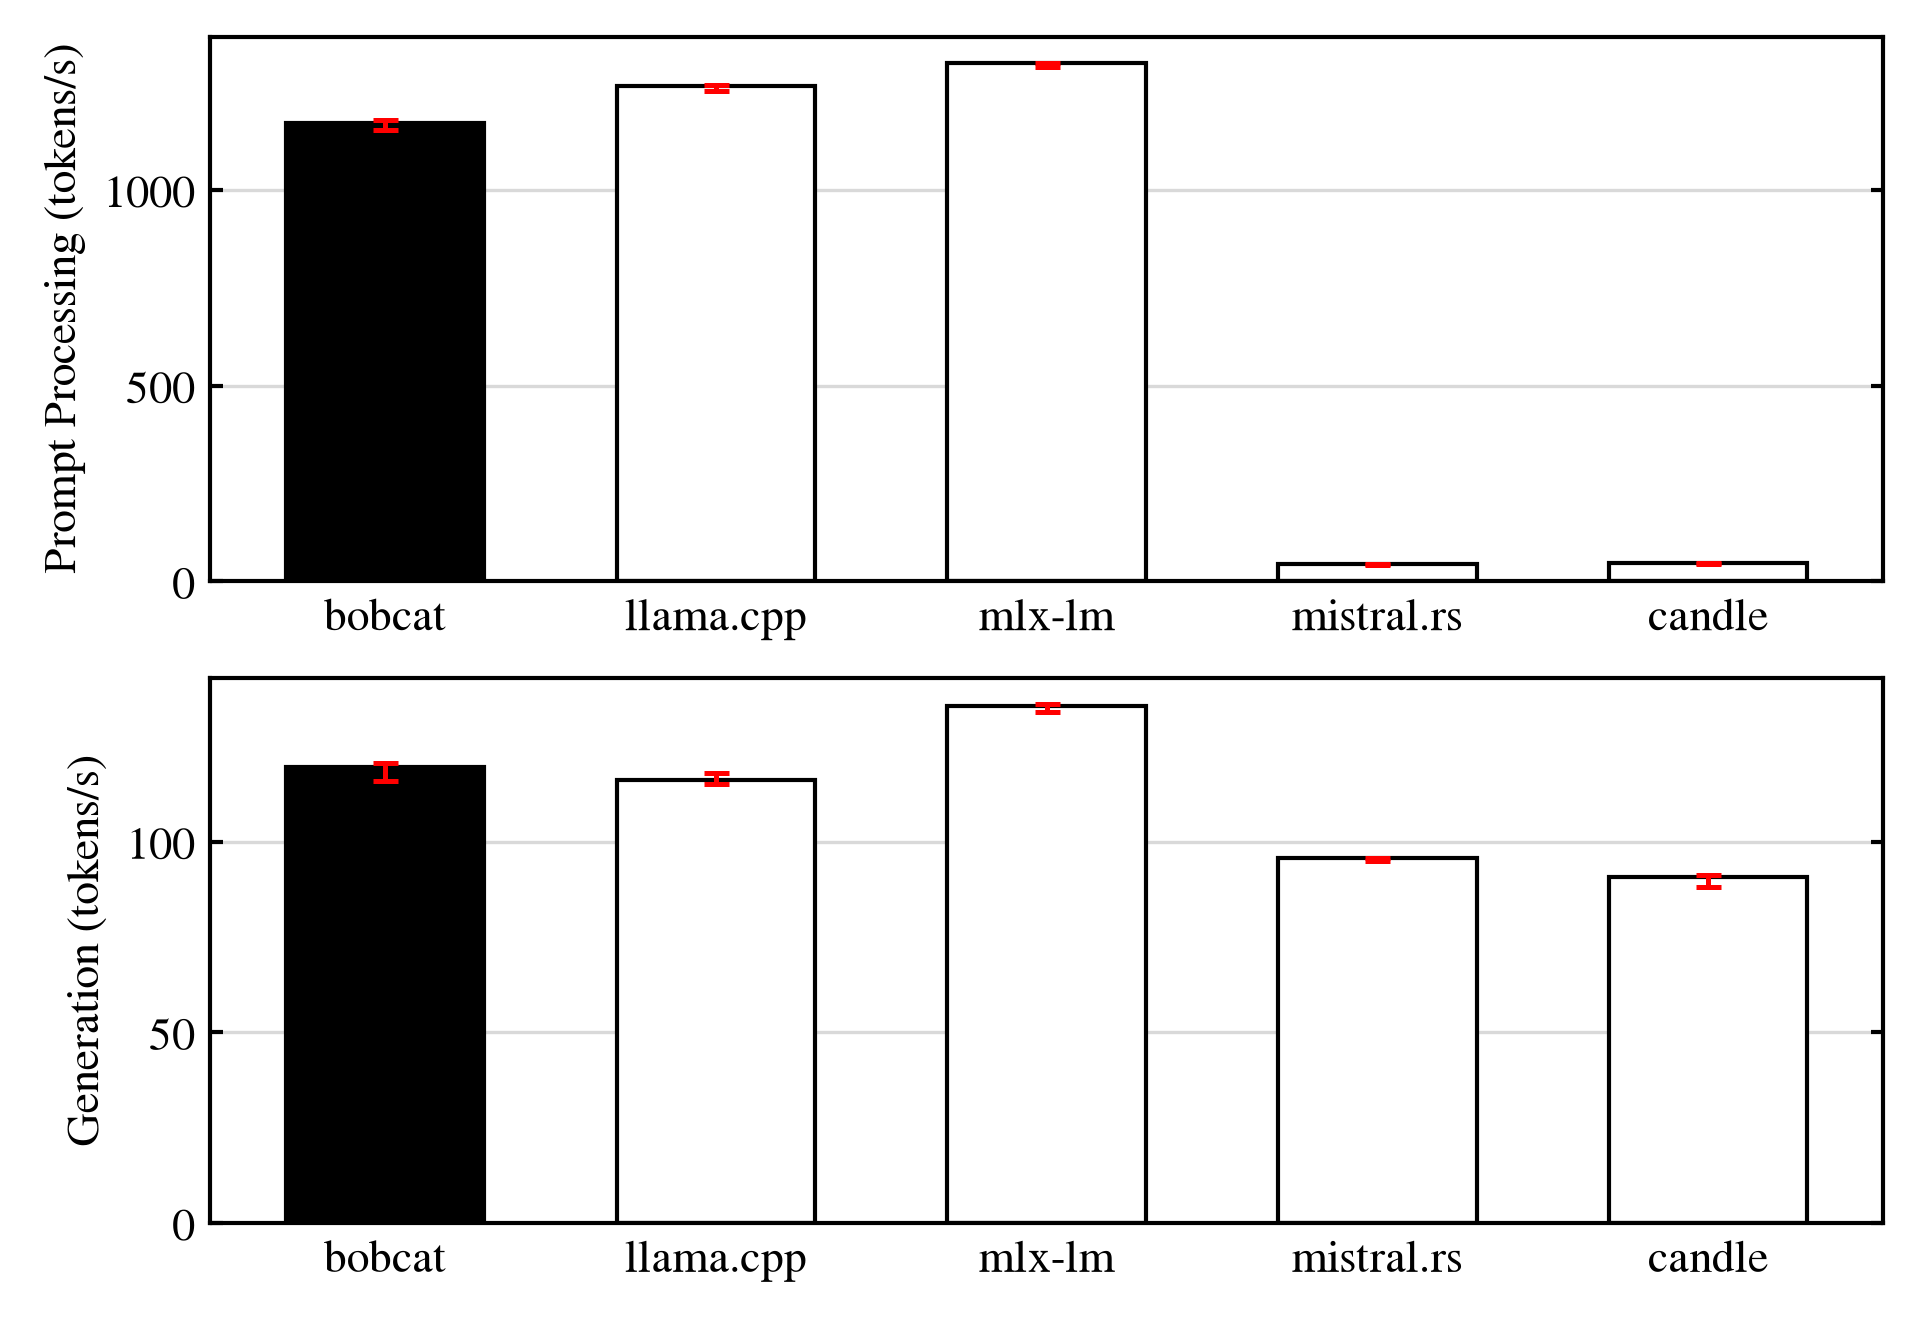
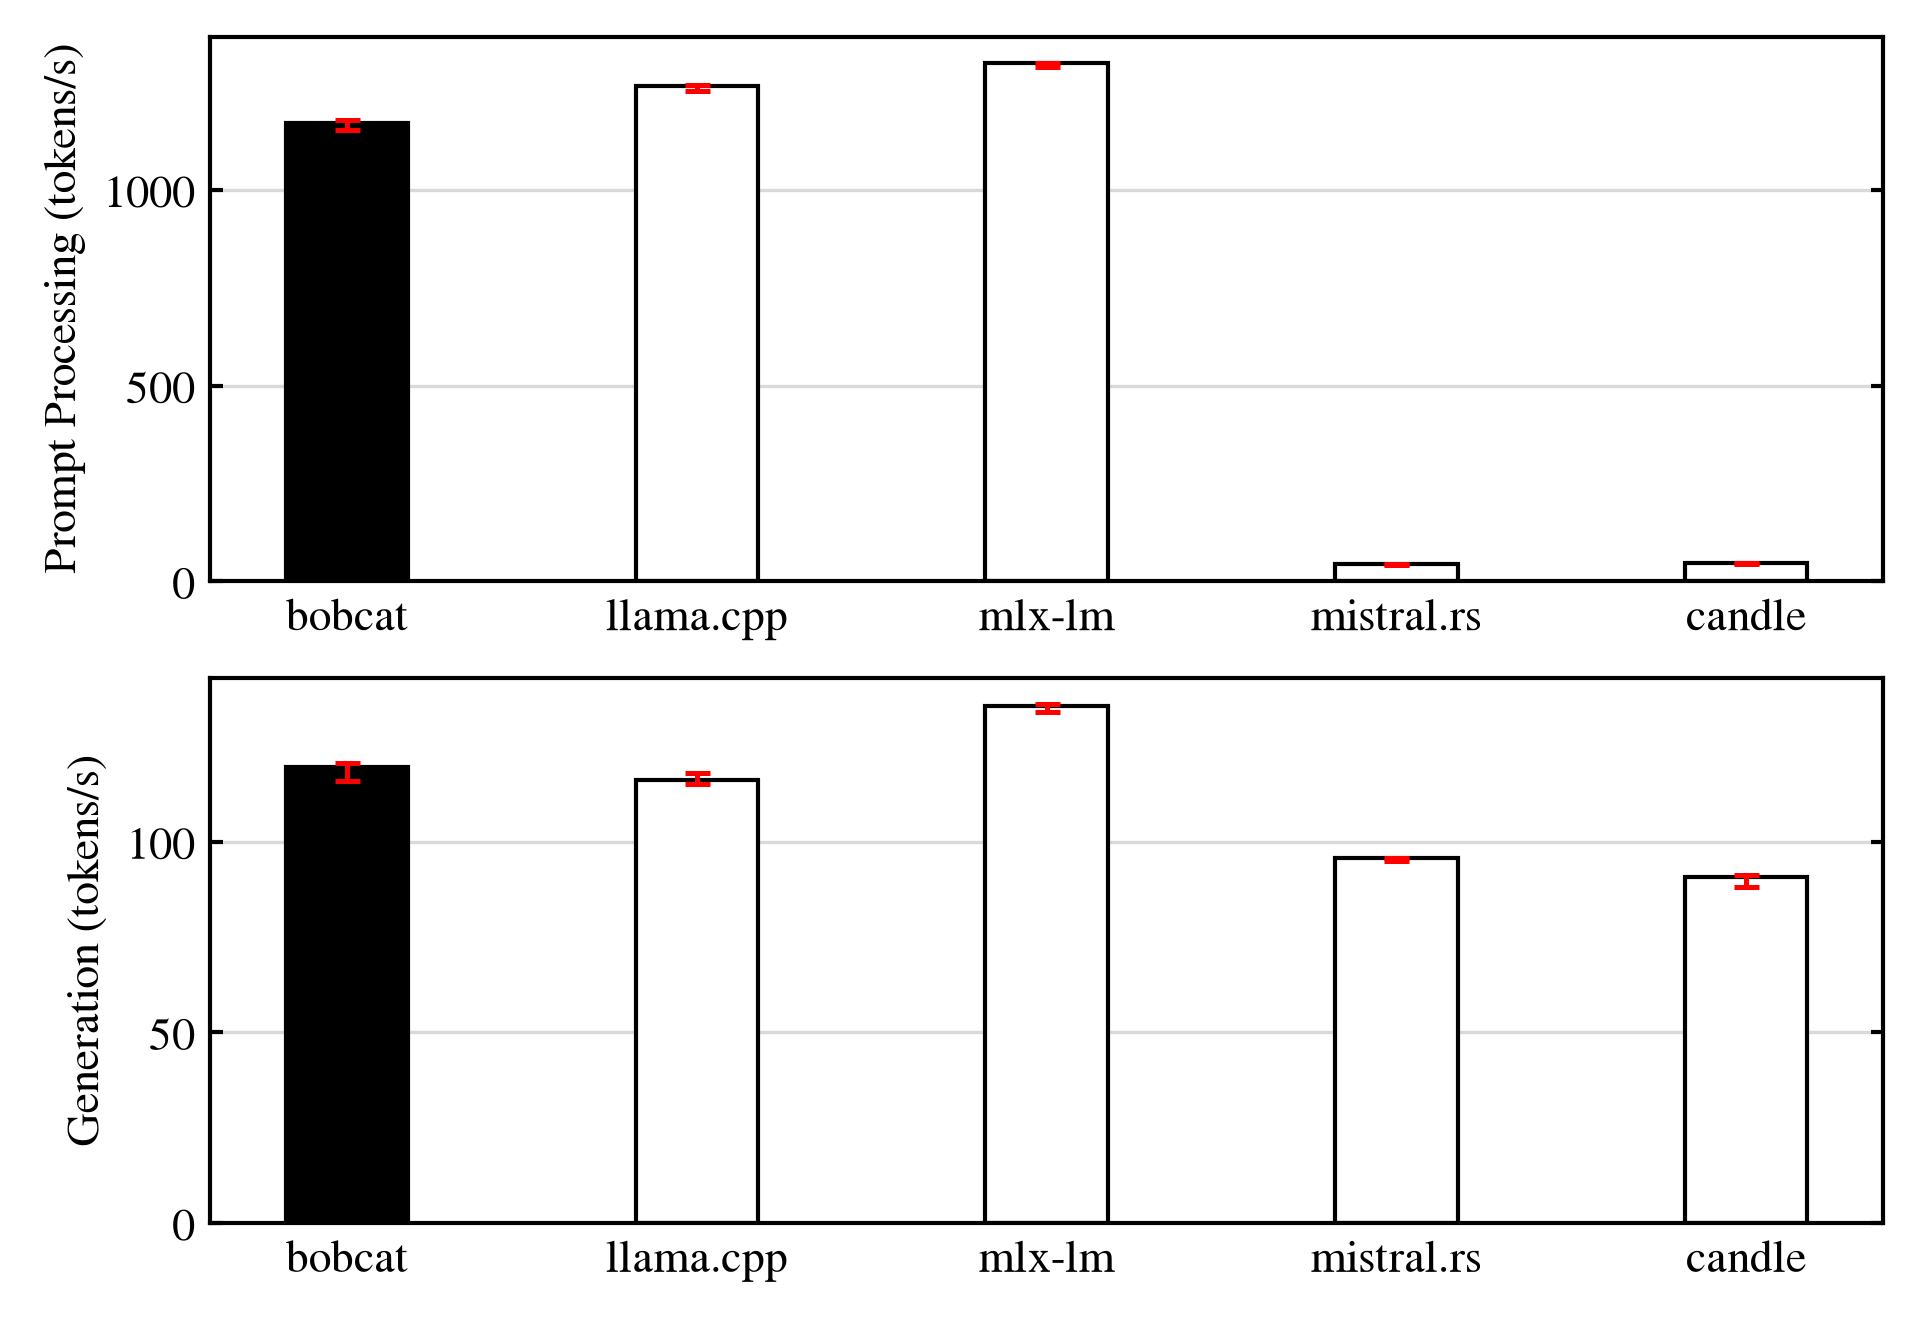
docs: narrow the performance chart's bars

diff --git a/tools/performance_plot.py b/tools/performance_plot.py
@@ -53,7 +53,8 @@ matplotlib.rcParams.update(
 # The panels stack, so each spans the full width and the engine names fit level under the bars.
 FIGURE_SIZE_INCHES = (6.4, 4.4)
 PNG_DPI = 300
-BAR_WIDTH = 0.6
+# Each bar fills 0.35 of the space between two engines, so full-width panels keep slim bars.
+BAR_WIDTH = 0.35
 BAR_EDGE_COLOR = "#000000"
 # bobcat's bars are filled black, and every other engine's bars are open.
 BOBCAT_FACE_COLOR = "#000000"
